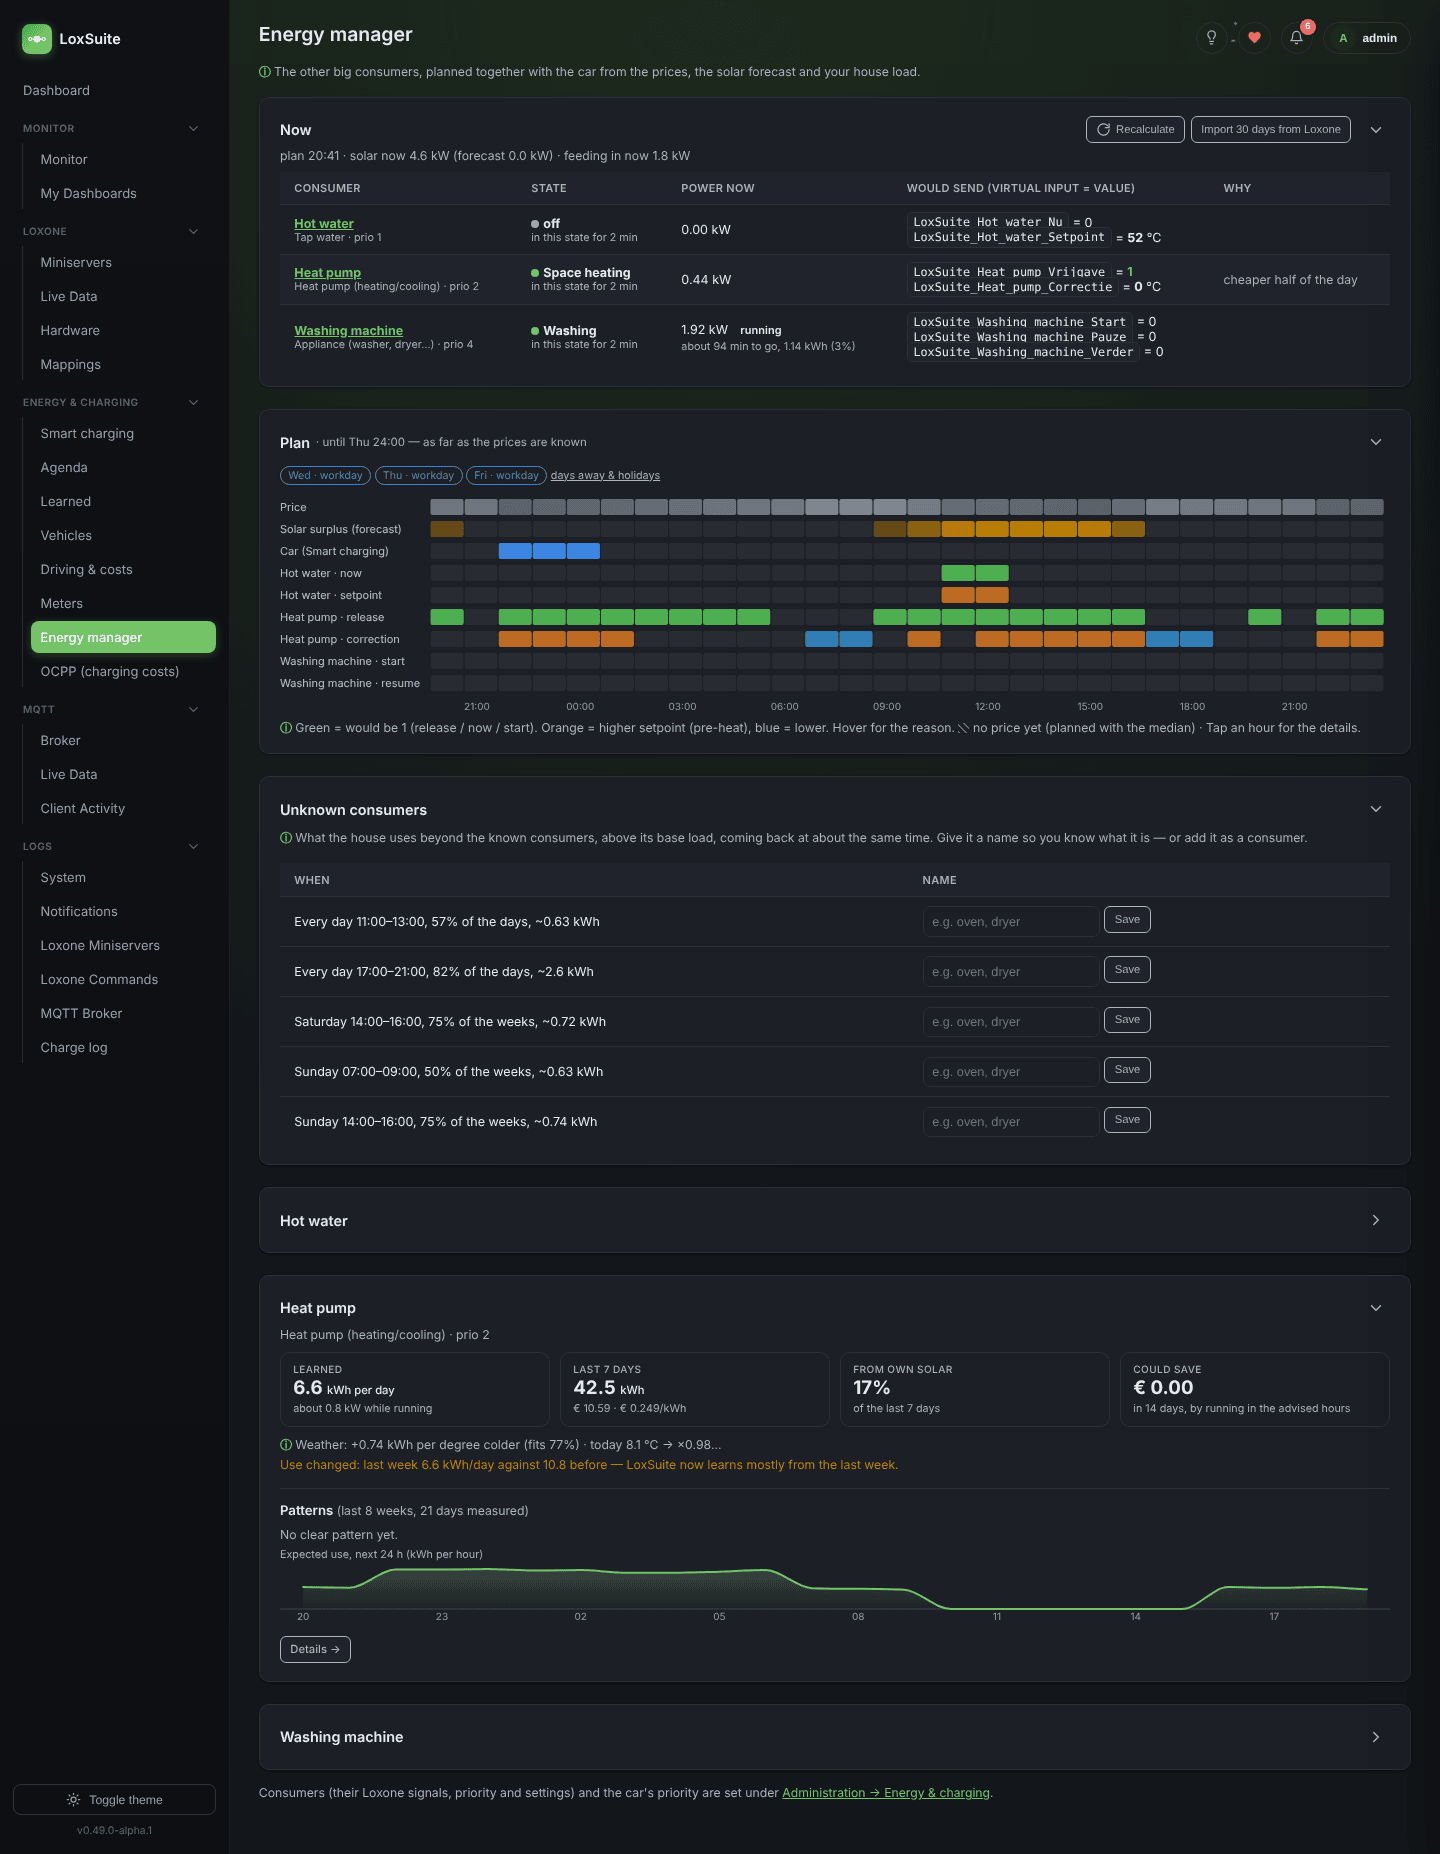
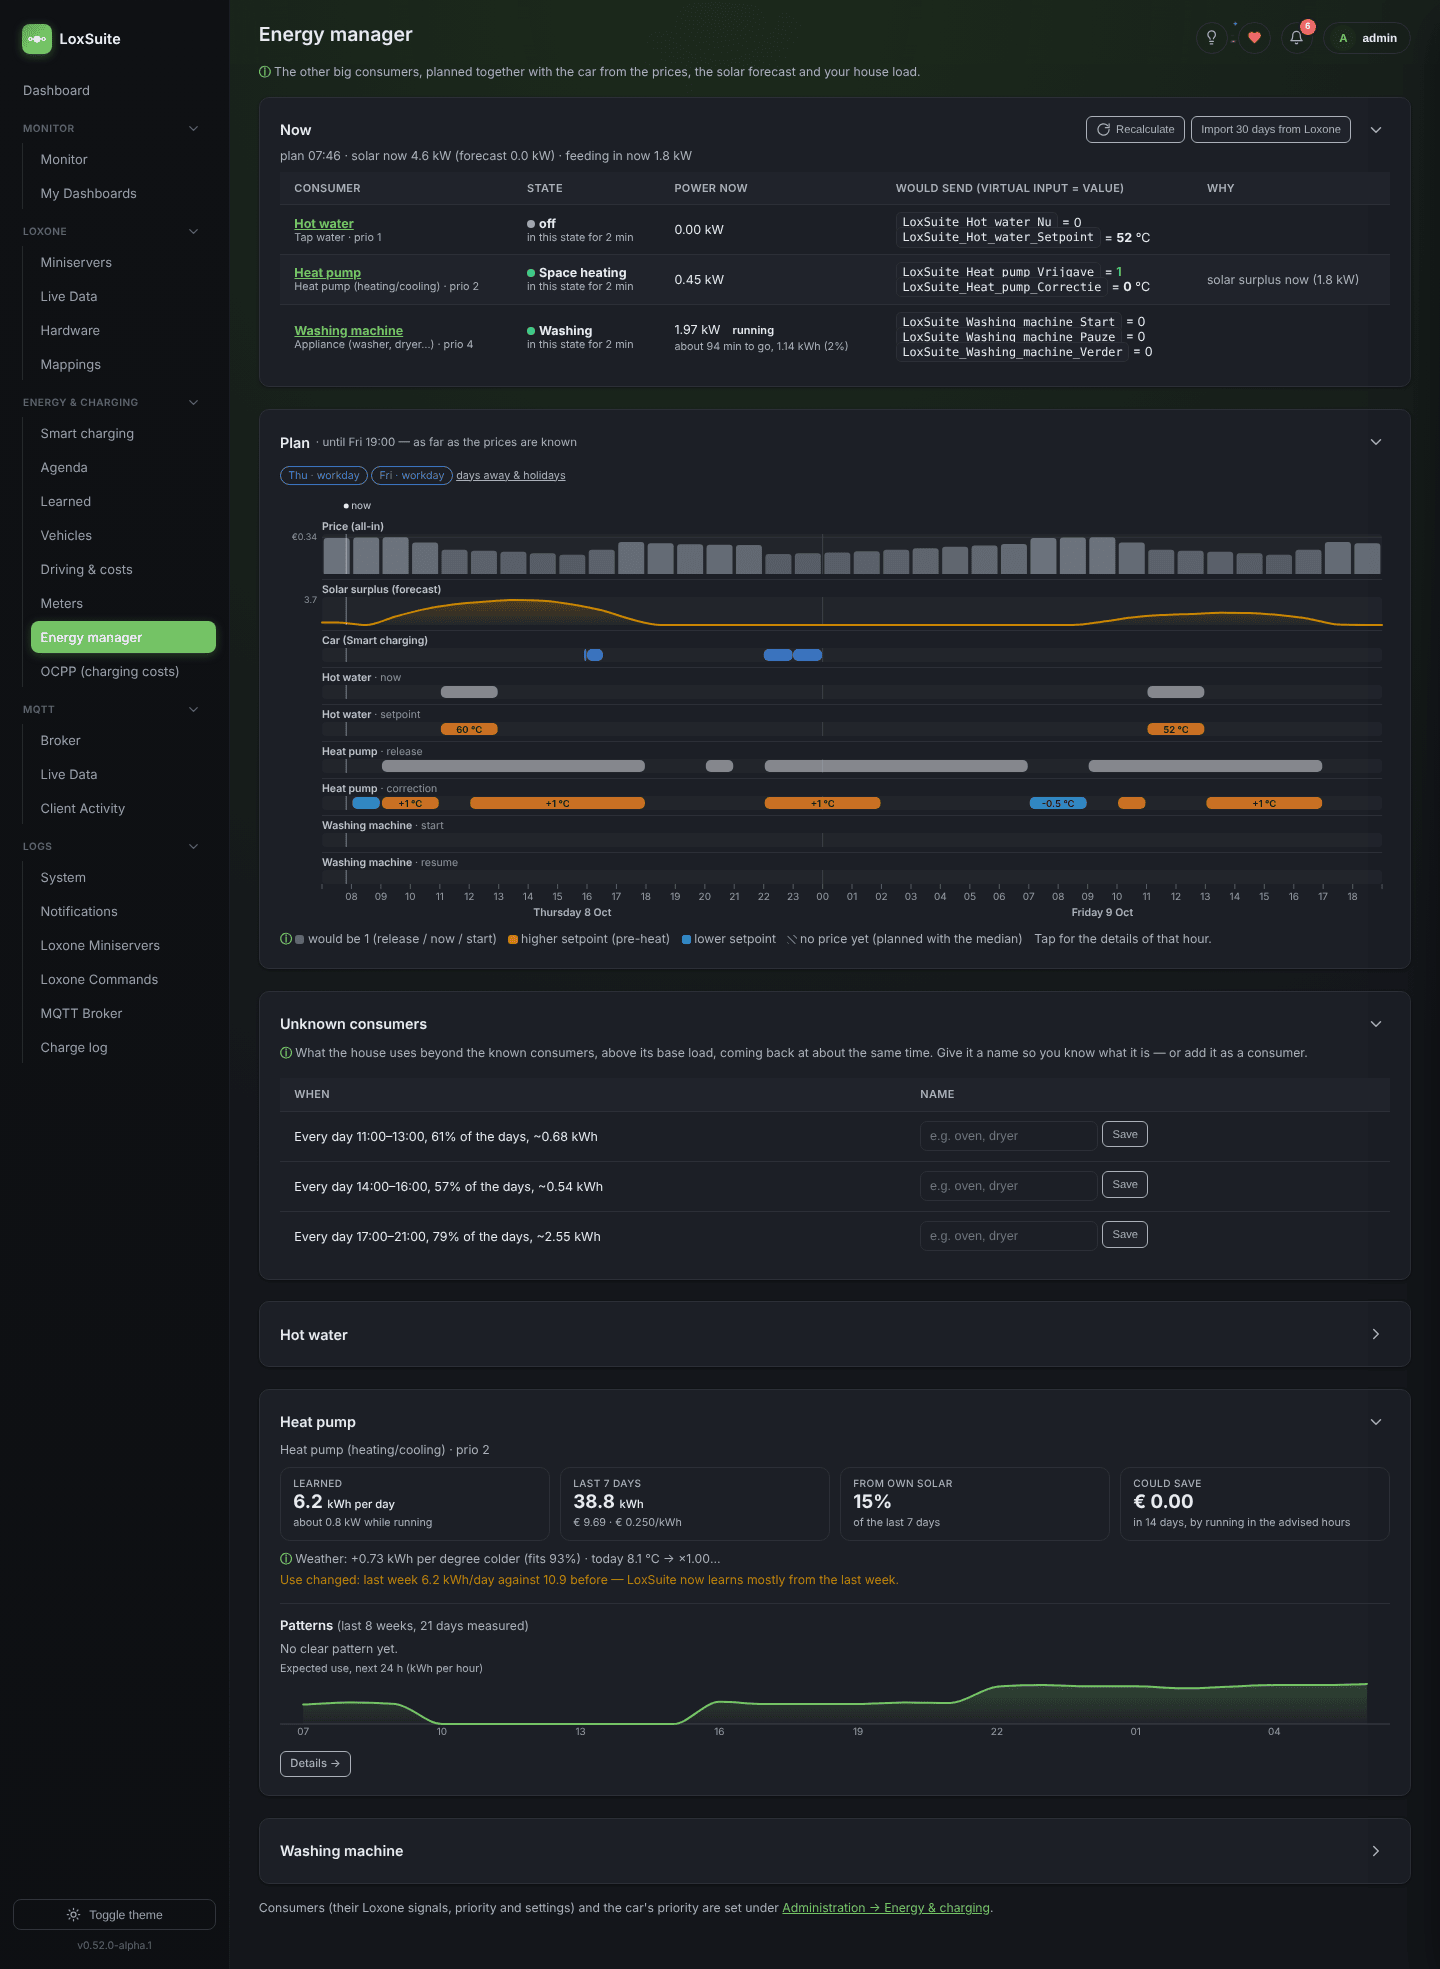
v0.52.0: negative prices drawn below a zero line (green) in Smart charging and the energy manager, the energy manager's plan in the shared chart style (labels above the lanes, prices per quarter, the car at its real times, runs as one bar)

diff --git a/gateway/src/routes/energyManager.js b/gateway/src/routes/energyManager.js
@@ -109,7 +109,9 @@ router.get('/data.json', asyncHandler(async (req, res) => {
       runs: runs.filter((r) => r.kind === 'run').slice(0, 15),
     });
   }
-  res.json({ unknown: rt.unknown || [], dayTypes: rt.plan?.dayTypes || {}, loads: out, hours: rt.plan?.hours || [], carKwh: rt.plan?.carKwh || {}, quarters: rt.plan?.hours?.length ? await require('../prices').chartQuarters(new Date(rt.plan.hours[0].ms).toISOString(), new Date(rt.plan.hours[rt.plan.hours.length - 1].ms + 3600000).toISOString()).catch(() => null) : null, status: rt.status, live: rt.plan?.live || null, planAt: rt.plan?.at || null, cfg: await em.getConfig() });
+  // the car's planned charging at its real times (Smart charging), for the plan chart
+  const carSlots = (require('../planner').getRuntime().plan?.slots || []).map((c) => ({ start: c.start, end: c.end, kw: c.kw, kwh: c.kwh, pvKwh: c.pvKwh ?? null }));
+  res.json({ unknown: rt.unknown || [], dayTypes: rt.plan?.dayTypes || {}, loads: out, hours: rt.plan?.hours || [], carKwh: rt.plan?.carKwh || {}, carSlots, quarters: rt.plan?.hours?.length ? await require('../prices').chartQuarters(new Date(rt.plan.hours[0].ms).toISOString(), new Date(rt.plan.hours[rt.plan.hours.length - 1].ms + 3600000).toISOString()).catch(() => null) : null, status: rt.status, live: rt.plan?.live || null, planAt: rt.plan?.at || null, cfg: await em.getConfig() });
 }));
 
 // The Loxone signals of a consumer (state uuids): on/off, status (+ value labels and which values mean

diff --git a/README.md b/README.md
@@ -7,7 +7,7 @@
      since this repo only publishes git tags, not GitHub Releases) — bump it alongside CHANGELOG.md
      and package.json on every version release. -->
 [![Latest version](https://img.shields.io/github/v/tag/DaveRutten/LoxSuite?sort=semver&label=version)](https://github.com/DaveRutten/LoxSuite/tags)
-[![Commits since latest tag](https://img.shields.io/github/commits-since/DaveRutten/LoxSuite/v0.51.1-alpha.1)](https://github.com/DaveRutten/LoxSuite/commits/main)
+[![Commits since latest tag](https://img.shields.io/github/commits-since/DaveRutten/LoxSuite/v0.52.0-alpha.1)](https://github.com/DaveRutten/LoxSuite/commits/main)
 [![Open issues](https://img.shields.io/github/issues/DaveRutten/LoxSuite)](https://github.com/DaveRutten/LoxSuite/issues)
 [![License](https://img.shields.io/github/license/DaveRutten/LoxSuite)](LICENSE)
 
@@ -714,7 +714,8 @@ charging page itself is the overview.
   hybrid intervals above the fuel break-even price (fuel price x l/100 km vs kWh/km) are skipped. Every planned
   interval shows its solar and grid part (e.g. *11.0 kWh (2.9 ☀ + 8.1 ⚡)*), also in the chart.
 - **The chart**: four panels over one time axis, each with its own scale — **price** (the planned intervals in
-  green, cheaper = lighter), **charging** (kW, the solar part yellow), the **expected battery level** (%; up while
+  the car's blue, the rest gray, cheaper = lighter; a **negative price** — you are paid to use power — hangs below
+  a zero line, in green), **charging** (kW, the solar part yellow), the **expected battery level** (%; up while
   charging, down during the drives in the agenda or the usual drive of that day, with the level at the start,
   when it has to be ready and around each drive) and **solar surplus with the import from the grid** (kW). Soft
   fills, smooth lines with a light wash, a tick every hour, the days below, *now*, *ready by* and *expected home*
@@ -889,6 +890,12 @@ is the overview. It learns usage **patterns** (hot water every day around 07:00,
 morning) and plans ahead of them, works with the **real values** as well as the forecast (the current hour from
 the meters, the next hours corrected when the solar forecast is off; an hour planned on solar that isn't there
 waits), and shows per day what each load cost and what better timing would have saved.
+
+The **plan** is drawn like the other energy charts: lanes over one time axis, each with its label above it — the
+price per quarter (a negative price below a zero line, green), the solar surplus as a smooth line, the car's
+planned charging at its real times, and per consumer what it would do (a run of hours as one bar, a setpoint up
+or down in orange / blue with its value). Point at it for everything at that quarter; tap for the details of that
+hour. The consumers themselves are planned per hour.
 
 Each consumer can have several **signals from Loxone**, all optional next to its meter: **on/off** (the basis —
 when and how long it runs), a **status** (an enumerator such as *0 = Off, 1 = Washing, 2 = Spinning*, with the

diff --git a/CHANGELOG.md b/CHANGELOG.md
@@ -2,6 +2,23 @@
 
 All notable changes to this project are documented in this file.
 
+## [0.52.0-alpha.1] - 2026-10-08
+
+### Changed
+- **Negative prices in the charts** (asked: "have you taken into account that the hour / quarter prices are
+  sometimes negative — mainly the display?"): the planning already took a negative price as the cheapest, but the
+  charts drew it as a sliver (Smart charging) or almost invisible (energy manager). Now the price scale runs from the
+  lowest price to the highest, a negative price hangs below a zero line in green (*negative price* in the legend),
+  the details say *negative: you are paid to use power*, and an amount below zero reads as −€ 0,05. Note: the charts
+  show the all-in price (with energy tax), which is only negative when the market price is below about −€ 0,10.
+- **The energy manager's plan in the same style as the other energy charts** (asked: "the heatmap in the same
+  style, and more detail than blocks of an hour"; "the texts fall over the heatmap"): lanes over one time axis with
+  each label above its lane (never over the data, long names cut off); the price per quarter as soft columns, the
+  solar surplus as a smooth line with a light wash, the car's planned charging at its real times (e.g. 13:00–13:32)
+  instead of whole hours, and per consumer a run of hours as one bar — on/off neutral gray, a setpoint up or down in
+  orange / blue with its value inside. Hours, days, midnight and *now* like Smart charging; point at it for a summary
+  per quarter, tap for the details of that hour (highlighted). The consumers themselves are still planned per hour.
+
 ## [0.51.1-alpha.1] - 2026-10-08
 
 ### Fixed
